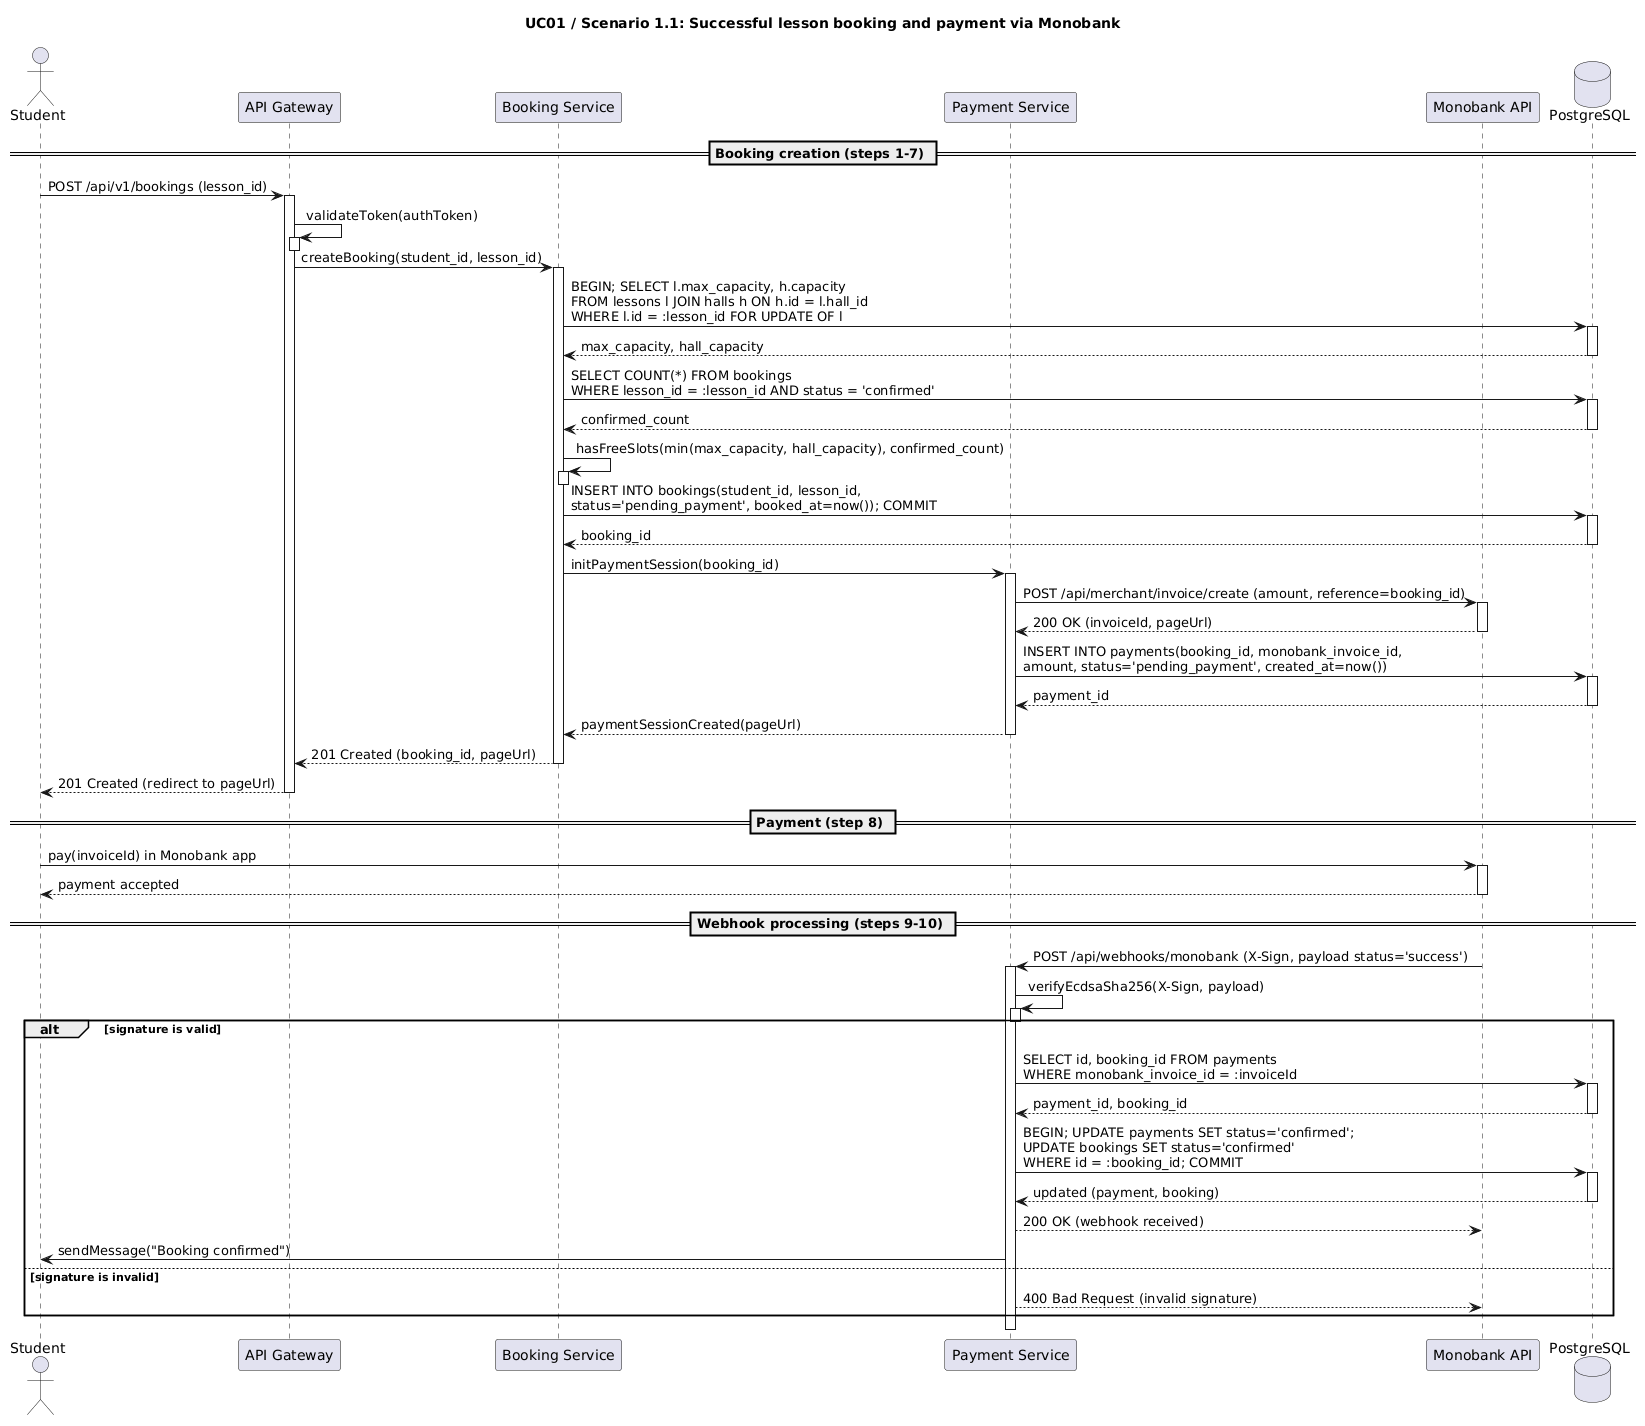
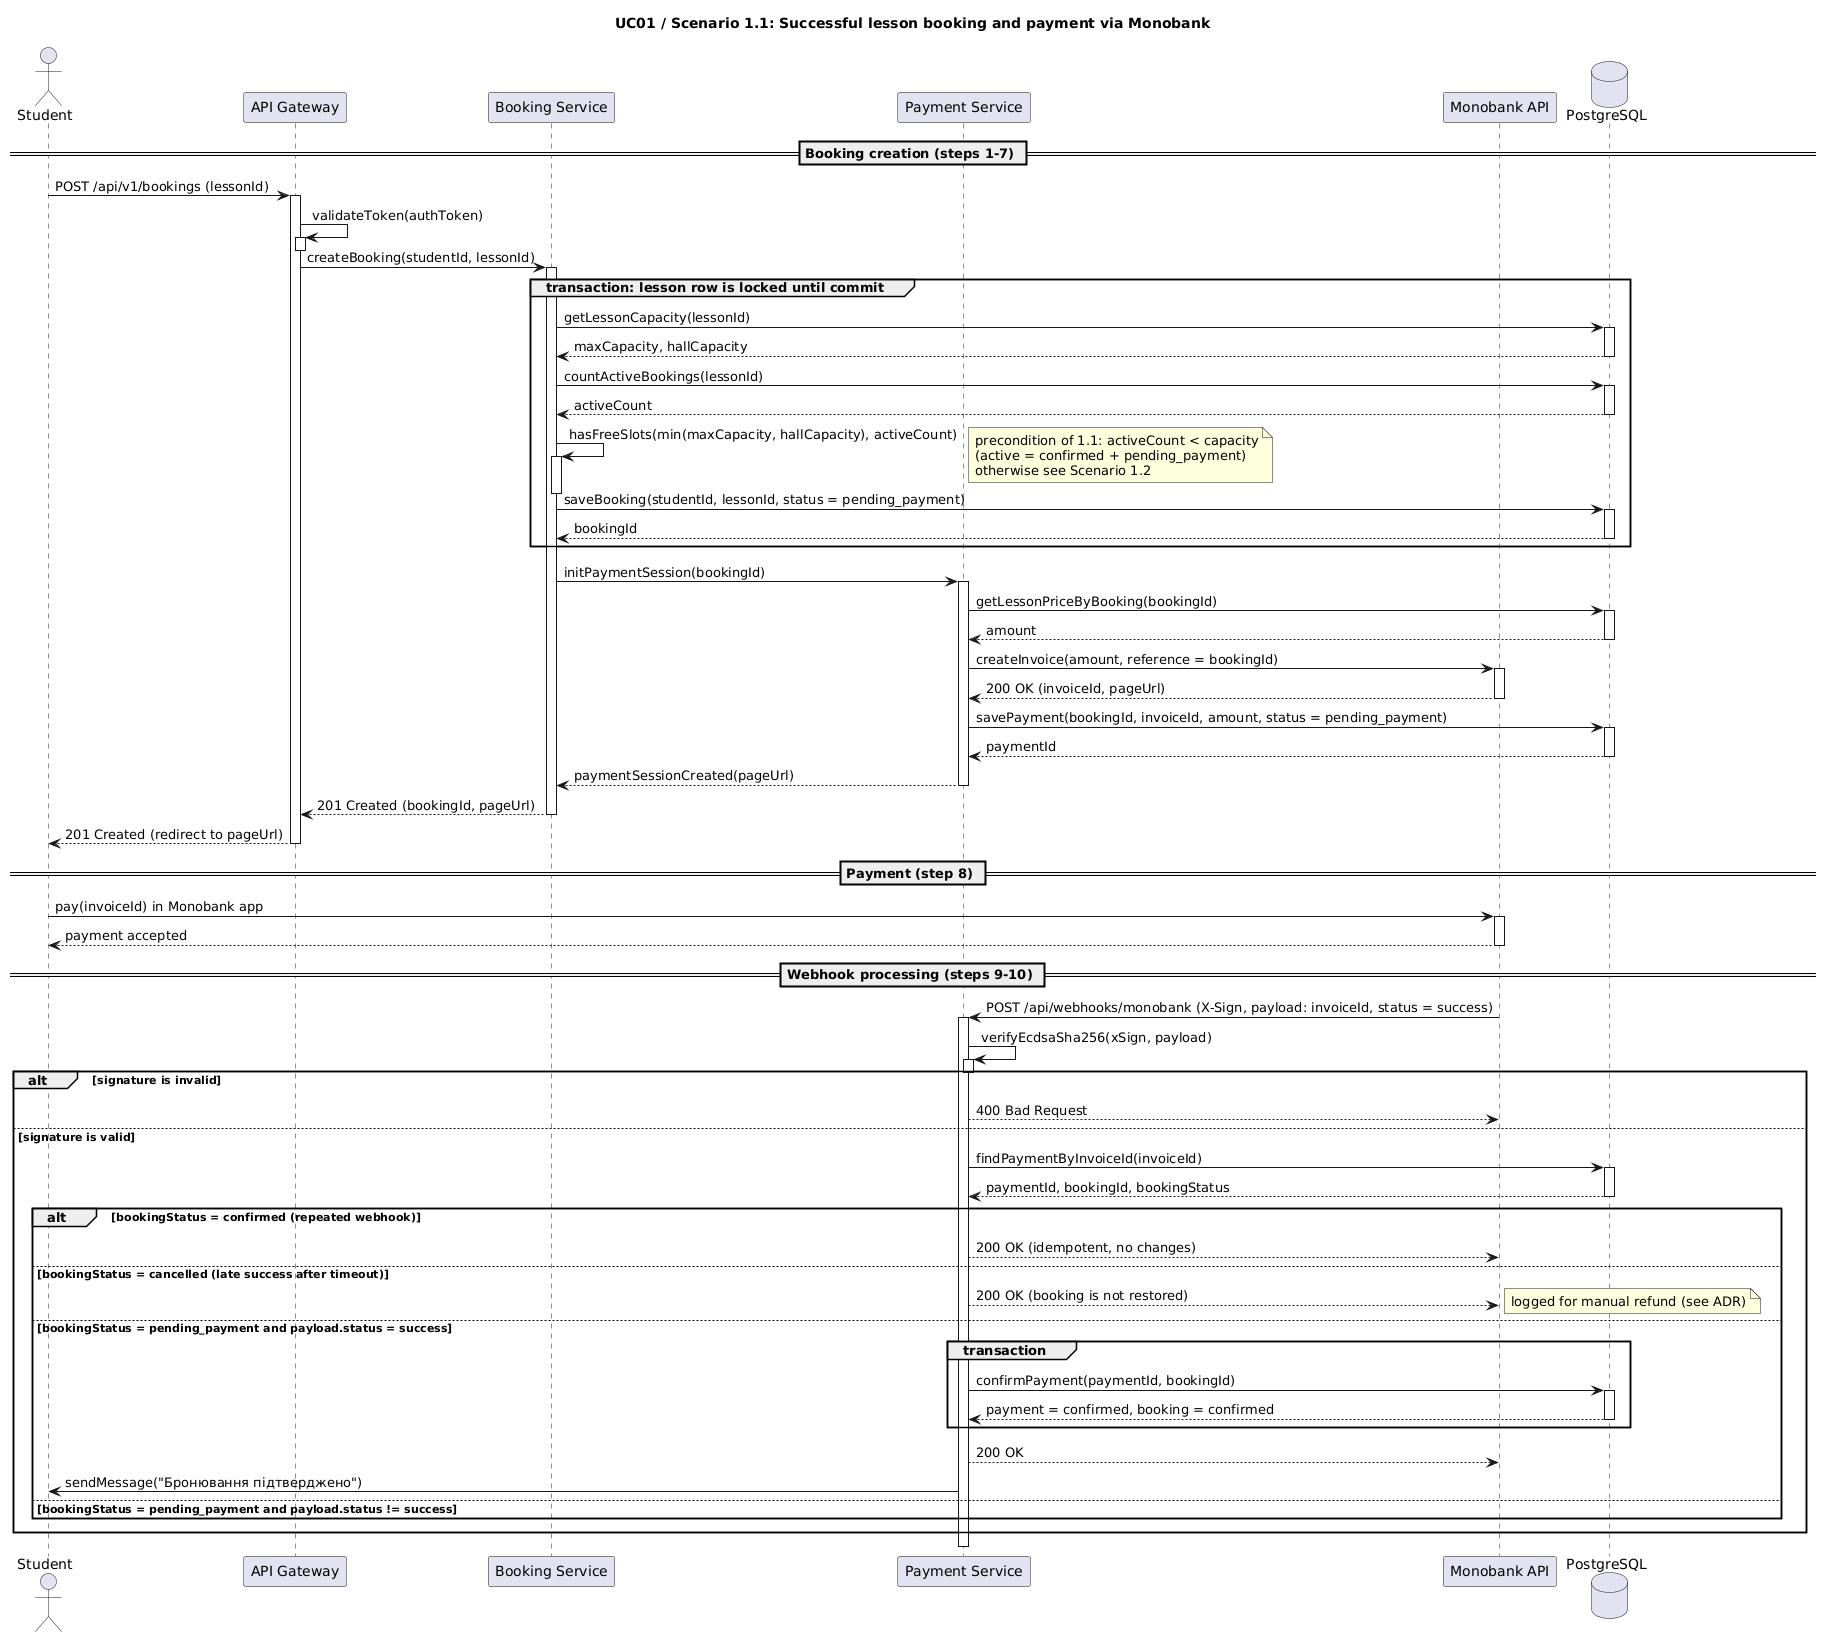
generated png diagrams from PlantUml; changed actors and entities description, scnearios explaining for 1 and 2 ones.

diff --git a/lab3/spec.md b/lab3/spec.md
@@ -1,39 +1,41 @@
 ## All actors and entities
 
-- **Student (users with role='STUDENT')**: searches for, books, and pays for classes.
-- **Instructor (users with role='INSTRUCTOR', instructors)**: views the schedule and lists of enrolled students.
-- **Administrator (users with role='ADMIN')**: manages the schedule, halls, dance styles, and transactions.
+- **Student**: searches for, books, and pays for classes.
+- **Instructor**: views the schedule and lists of enrolled students.
+- **Administrator**: manages the schedule, halls, dance styles, and transactions.
 - **Monobank API (External Actor)**: an external payment service (creates payment sessions, sends signed webhooks).
-- **Backend Domain Services**: APIGateway, BookingService, LessonService, PaymentService, Database (PostgreSQL).
+- **Backend Domain Services**: APIGateway, BookingService, PaymentService, Database (PostgreSQL), BookingTimeoutWorker.
 
 
 ## UC01: Booking and paying for lesson
 
 ### Scenario 1.1: Successful booking and paying via Monobank API
-**Initial conditions**: Student is authorised, Lesson has available slots ('current_bookings < capacity').
+**Initial conditions**: Student is authorised, Lesson has available slots (confirmed + pending_payment <
+min(Lesson.max_capacity, Hall.capacity)).
 
 **Step by step explaining**:
 1. Student sends request for booking exact 'lesson_id'.
 2. 'APIGateway' identifies authorisation token and redirects this request to 'BookingService'.
 3. 'BookingService' checks 'Lesson.max_capacity' and 'Hall.capacity' in 'Database'.
-4. 'BookingService' creates entry in 'bookings' table with status 'pending' and fixes timestamp 'created_at'.
+4. 'BookingService' creates entry in 'bookings' table with status 'pending_payment' and fixes timestamp 'booked_at'.
 5. 'BookingService' refers to 'PaymentService' to initialise invoice.
-6. 'Payment Service' calls external 'Monobank API' and gets 'pageUrl' and 'invoiceId'.
+6. 'Payment Service' calls external 'Monobank API' and gets 'pageUrl' and 'invoiceId', gets sum from Lesson.price and saves entry in payments with monobank_invoice_id.
 7. 'BookingService' returns 'pageUrl' to Student.
 8. Student pays for lesson in his Monobank app.
 9. 'Monobank API' sends asynchronous Webhook with ECDSA signature on backend.
-10. 'PaymentService' validates ECDSA SHA-256 signature, updates entry status in 'bookings' on 'confirmed', decrements counter of available slots by one and sends message to Student.
+10. 'PaymentService' validates ECDSA SHA-256 signature, updates entry status in 'bookings' on 'confirmed', sends message to Student.
 
 
 ### Scenario 1.2: attempt to book a slot for the lesson, which is full
-**Initial conditions**: Lesson has 0 available space ('confirmed + pending >= capacity').
+**Initial conditions**: Lesson has 0 available space (confirmed + pending_payment <
+min(Lesson.max_capacity, Hall.capacity)).
 
 **Step by step explaining**:
 1. Student sends request for booking exact 'lesson_id'.
 2. 'APIGateway' identifies authorisation token and redirects this request to 'BookingService'.
-3. 'BookingService' checks 'Lesson.max_capacity' and 'Hall.capacity' in 'Database'.
-4. 'Database' return present status of lesson capacity: 0 slots are available.
-5. 'BookingService' declines request for creating an entry in 'bookings' table.
+3. 'BookingService' checks 'Lesson.max_capacity' and 'Hall.capacity' in 'Database', amount of bookings(confirmed + pending_payment).
+4. 'Database' return count of available slots, 'BookingService' and understands that 0 place is free.
+5. Booking is not created, transaction is rolled back.
 6. Student gets HTTP 409 Conflict with localised message "Class is full".
 
 
